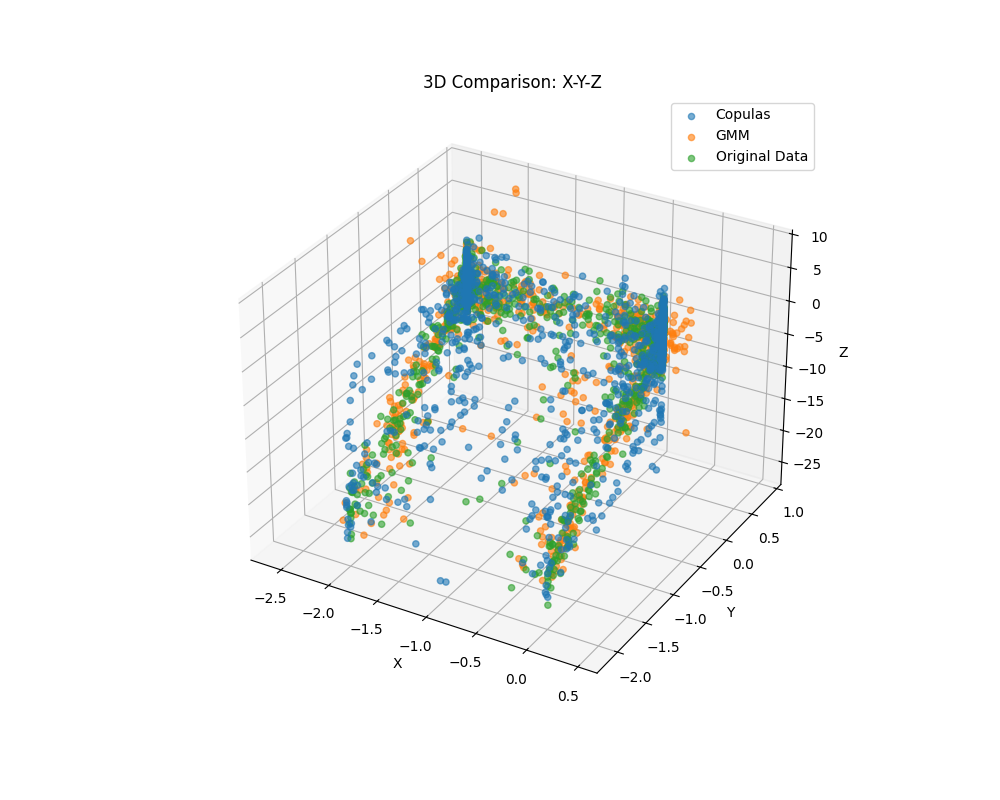
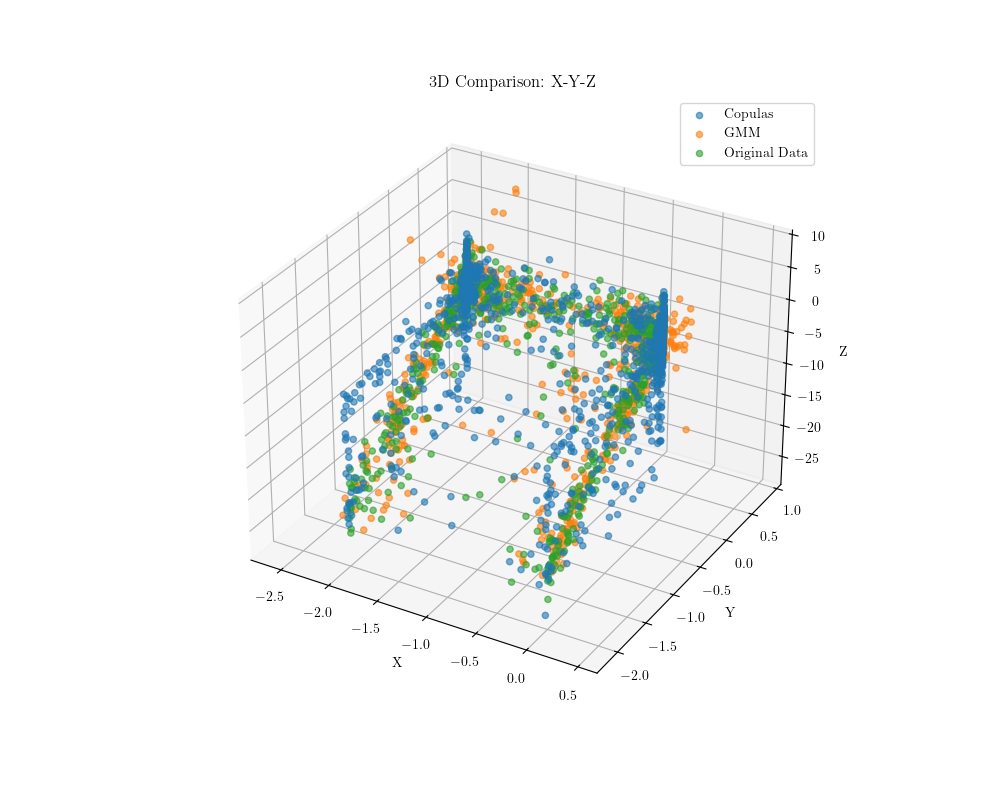
latex rendering

diff --git a/toy-data-generation.py b/toy-data-generation.py
@@ -5,6 +5,13 @@ from copulas.datasets import sample_trivariate_xyz
 from copulas.multivariate import GaussianMultivariate
 from sklearn.mixture import GaussianMixture
 
+# Uncomment below to render in LateX.
+
+# plt.rcParams.update({
+#        "text.usetex": True,
+#        "font.family": "serif",
+#        "font.serif": ["Computer Modern Roman"],
+#    })
 
 # Constants
 IMAGE_DIR = 'images/'
@@ -16,9 +23,9 @@ N_SAMPLES = 1000
 
 def plot_2d_comparison(data, samples_copulas, samples_gmm, x_idx, y_idx, title, filename):
     """Plot and save 2D comparison."""
-    plt.scatter(samples_copulas[:, x_idx], samples_copulas[:, y_idx], label='Copulas')
-    plt.scatter(samples_gmm[:, x_idx], samples_gmm[:, y_idx], label='GMM')
-    plt.scatter(data[:, x_idx], data[:, y_idx], label='Original Data')
+    plt.scatter(samples_copulas[:, x_idx], samples_copulas[:, y_idx], label='Copulas', alpha=0.6)
+    plt.scatter(samples_gmm[:, x_idx], samples_gmm[:, y_idx], label='GMM', alpha=0.6)
+    plt.scatter(data[:, x_idx], data[:, y_idx], label='Original Data', alpha=0.6)
     plt.legend()
     plt.title(title)
     plt.savefig(f"{IMAGE_DIR}{filename}")
